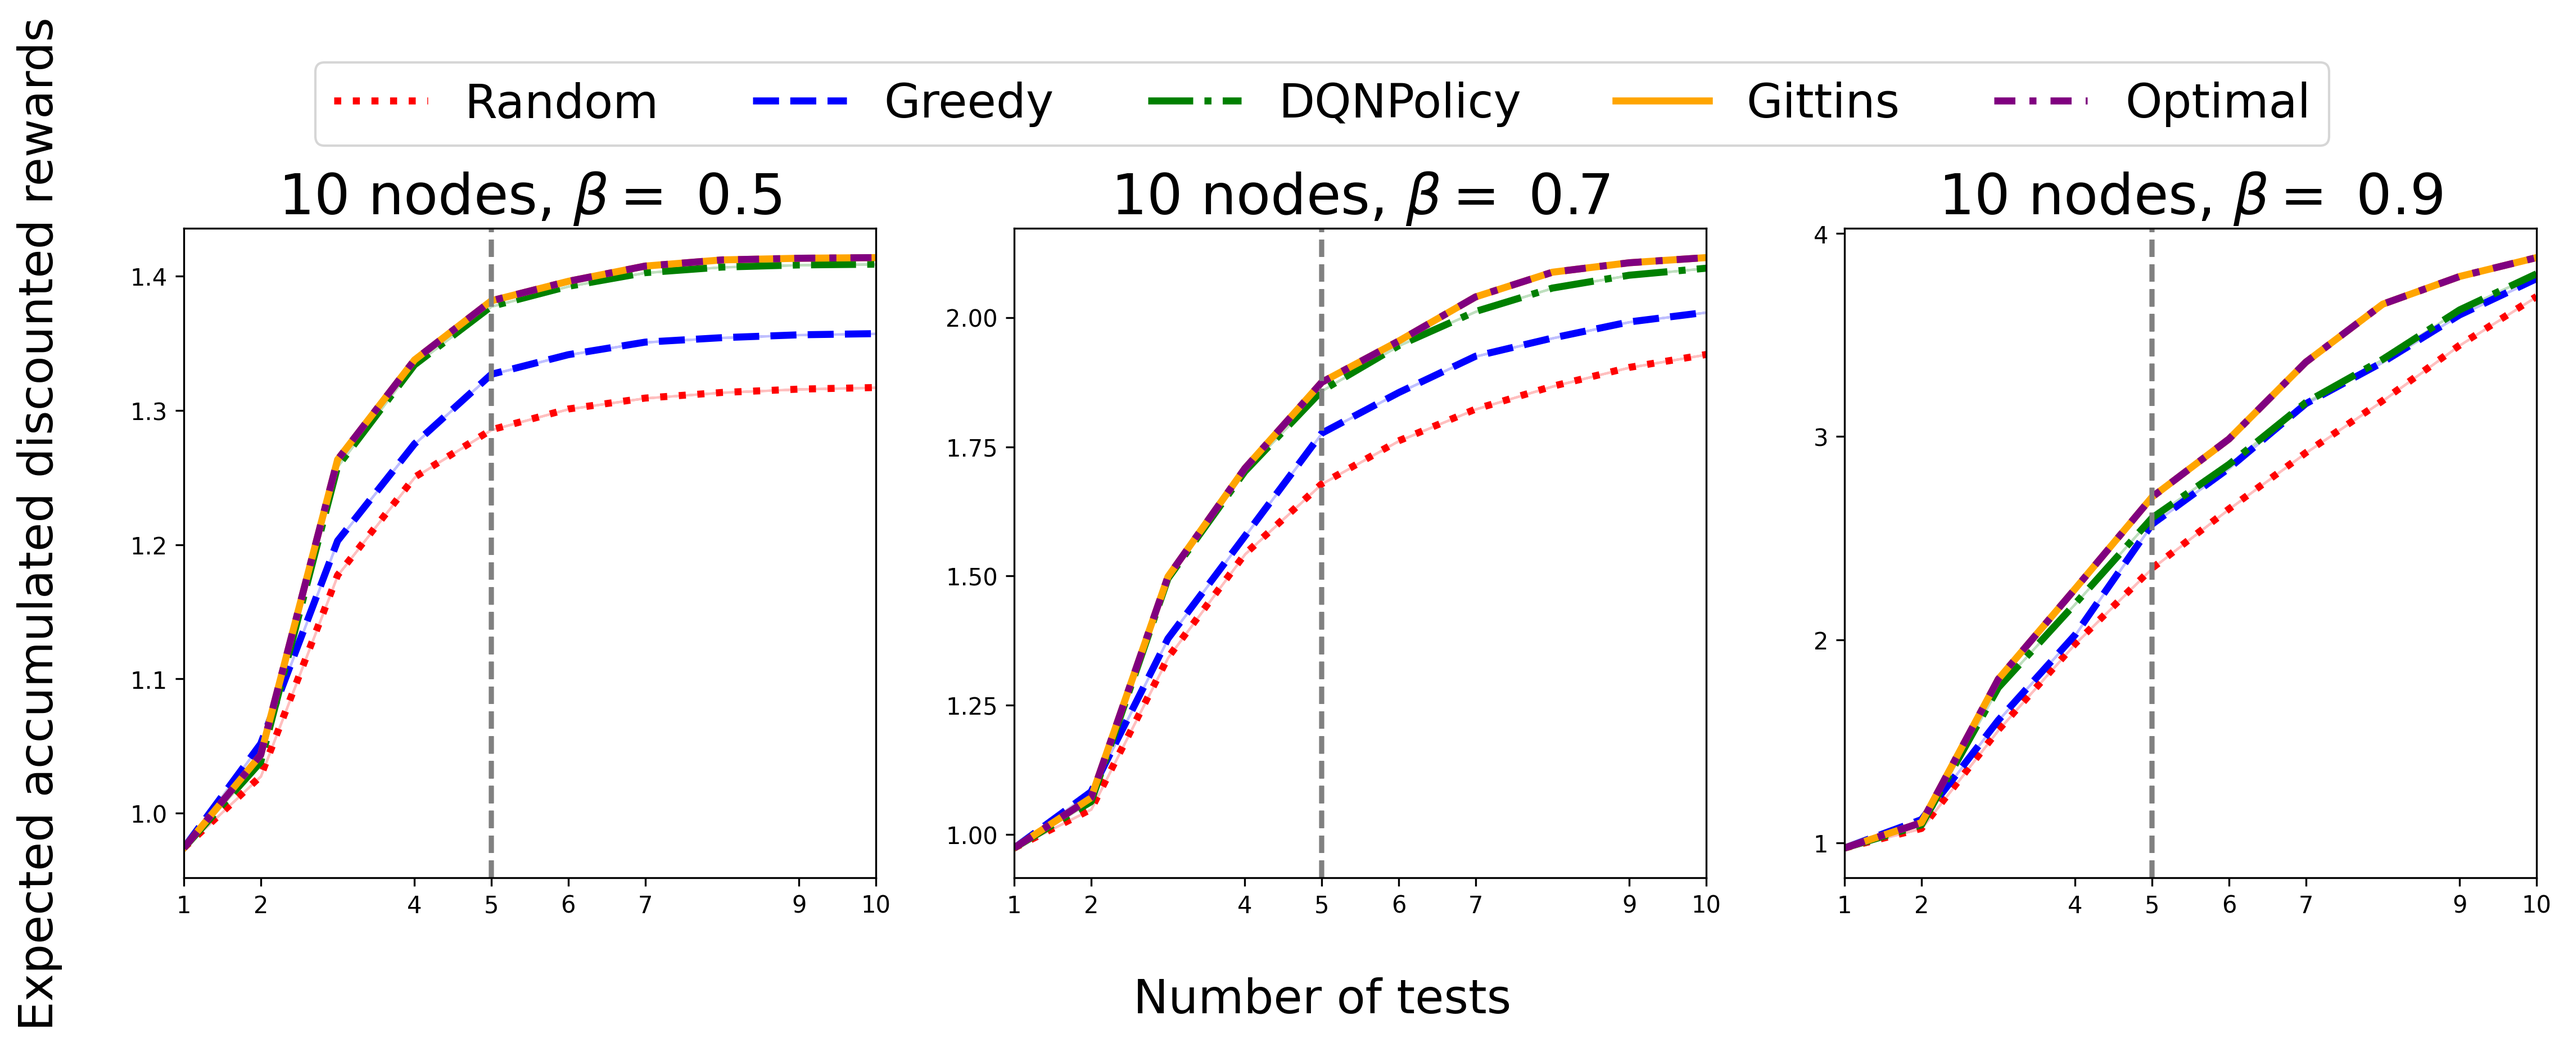
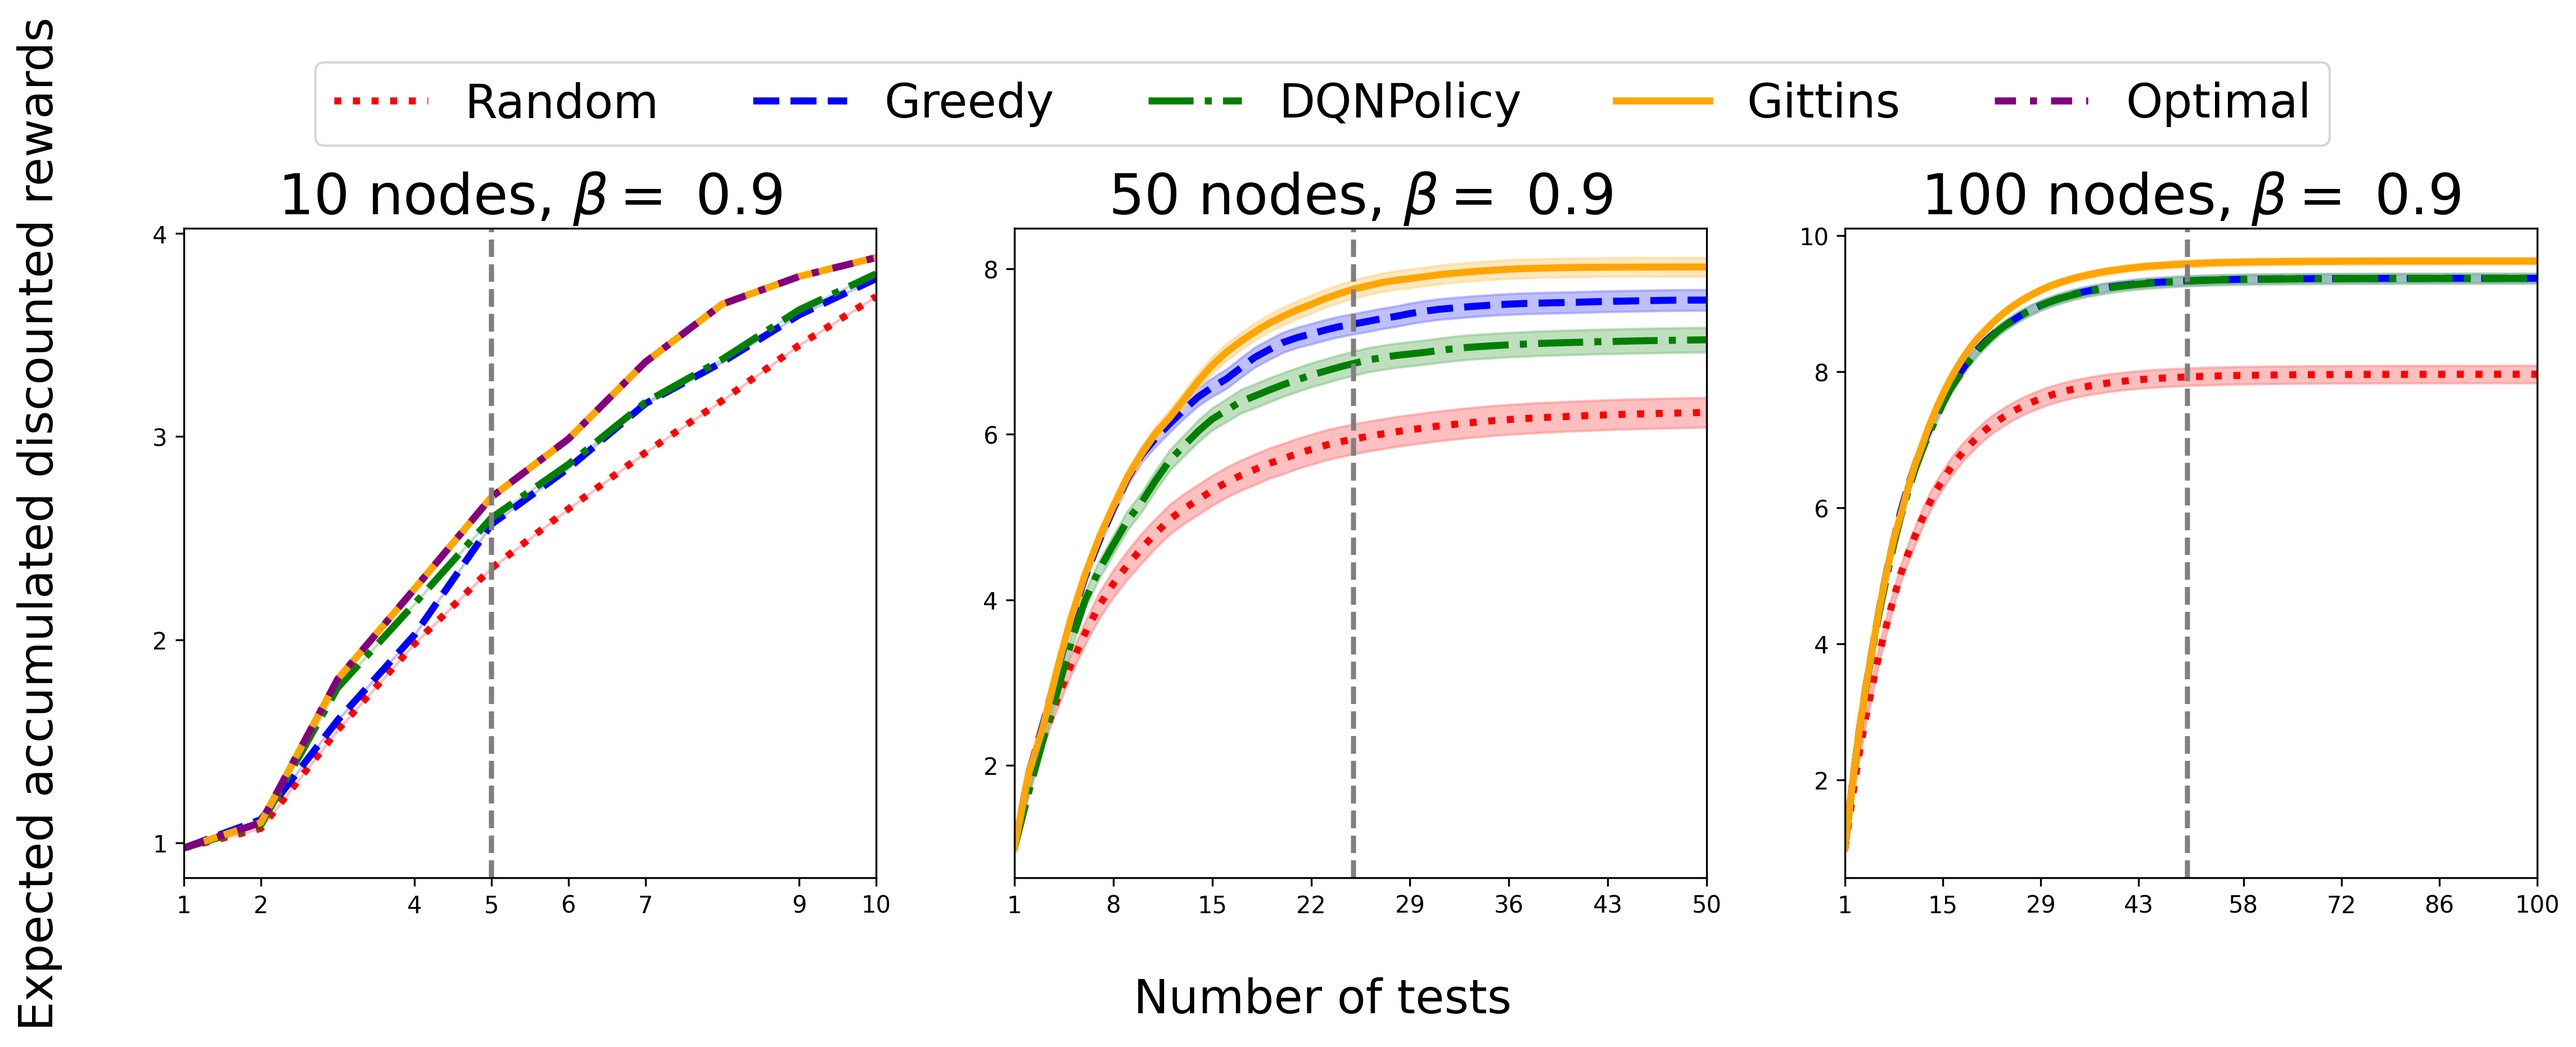
updated plotting of exp1 in main paper

diff --git a/experiment1.py b/experiment1.py
@@ -105,9 +105,9 @@ def plot_row(policies_to_run: dict, policy_labels: list, policy_colors: list, po
 
     all_lines = []
     key_to_axes = {
-        (10, 0.5): 0,
-        (10, 0.7): 1,
-        (10, 0.9): 2,
+        (10, 0.9): 0,
+        (50, 0.9): 1,
+        (100, 0.9): 2,
     }
 
     # Plot
